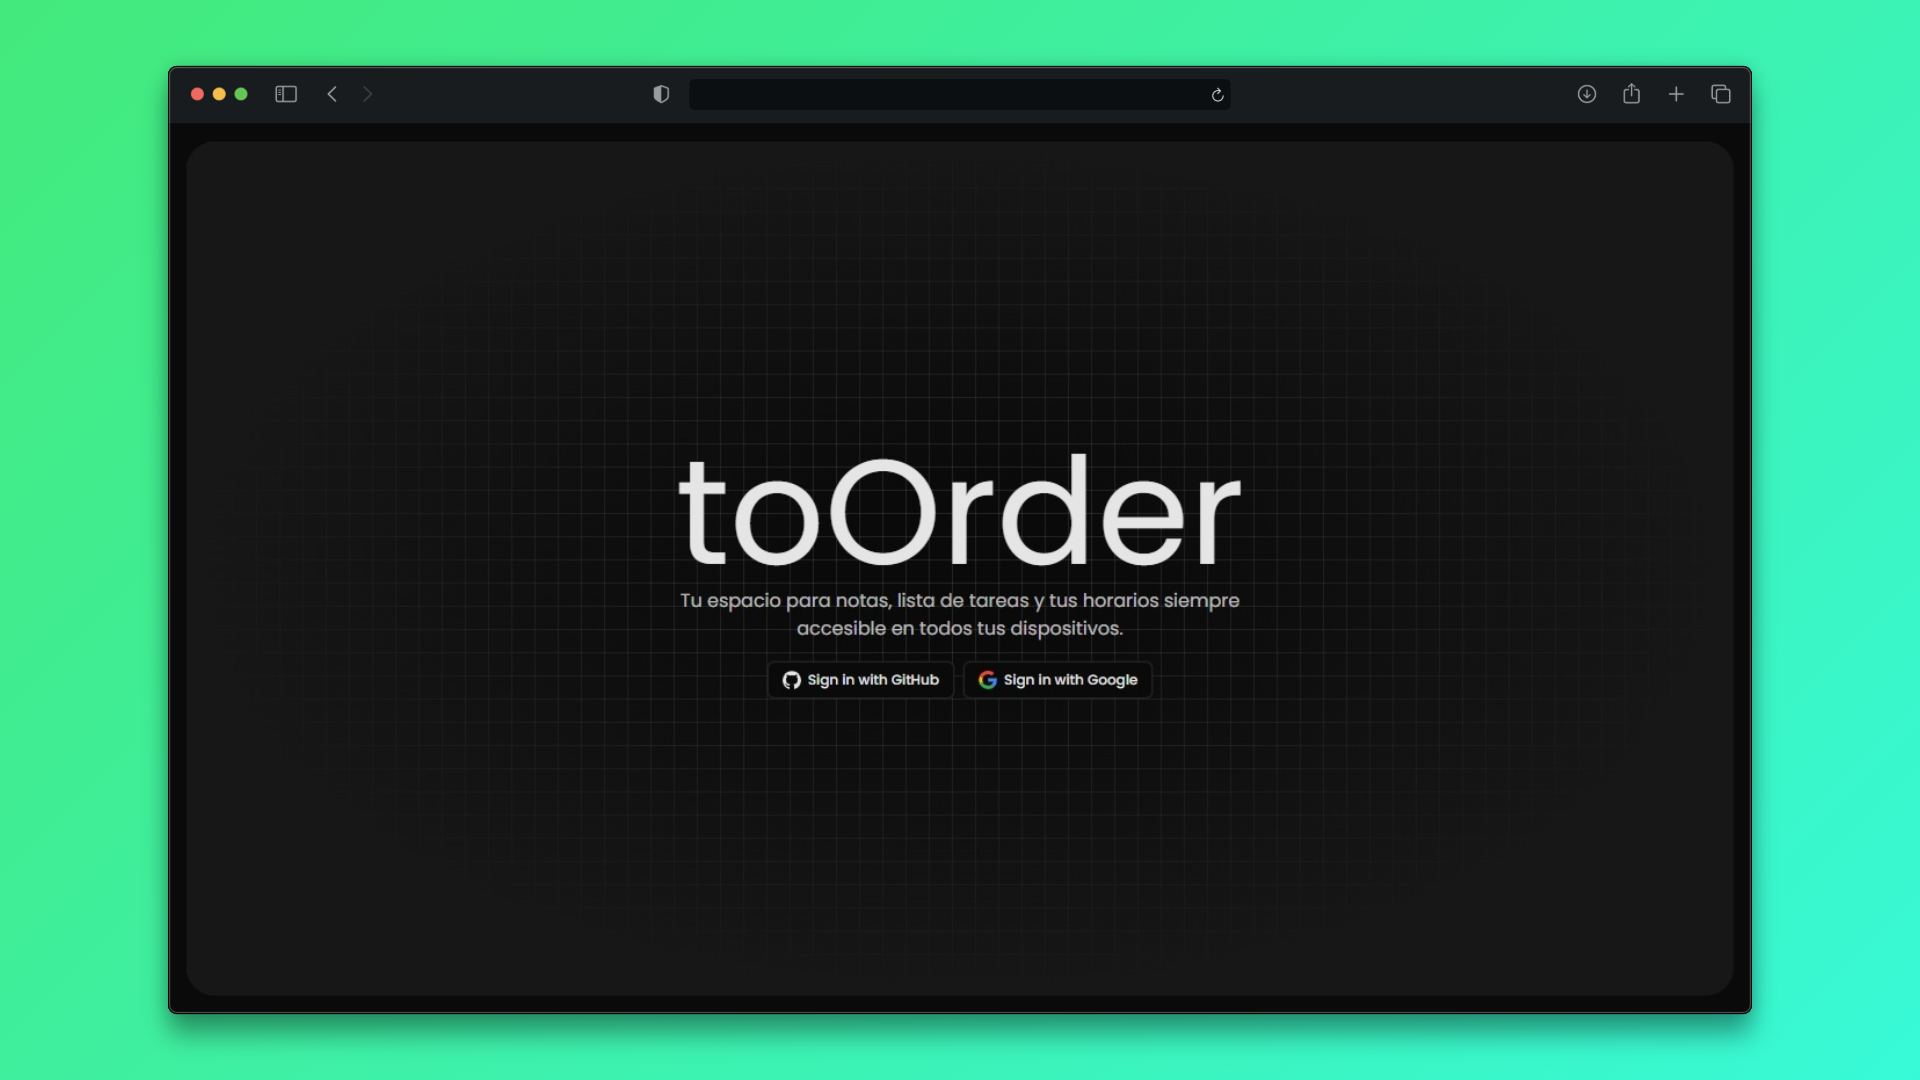
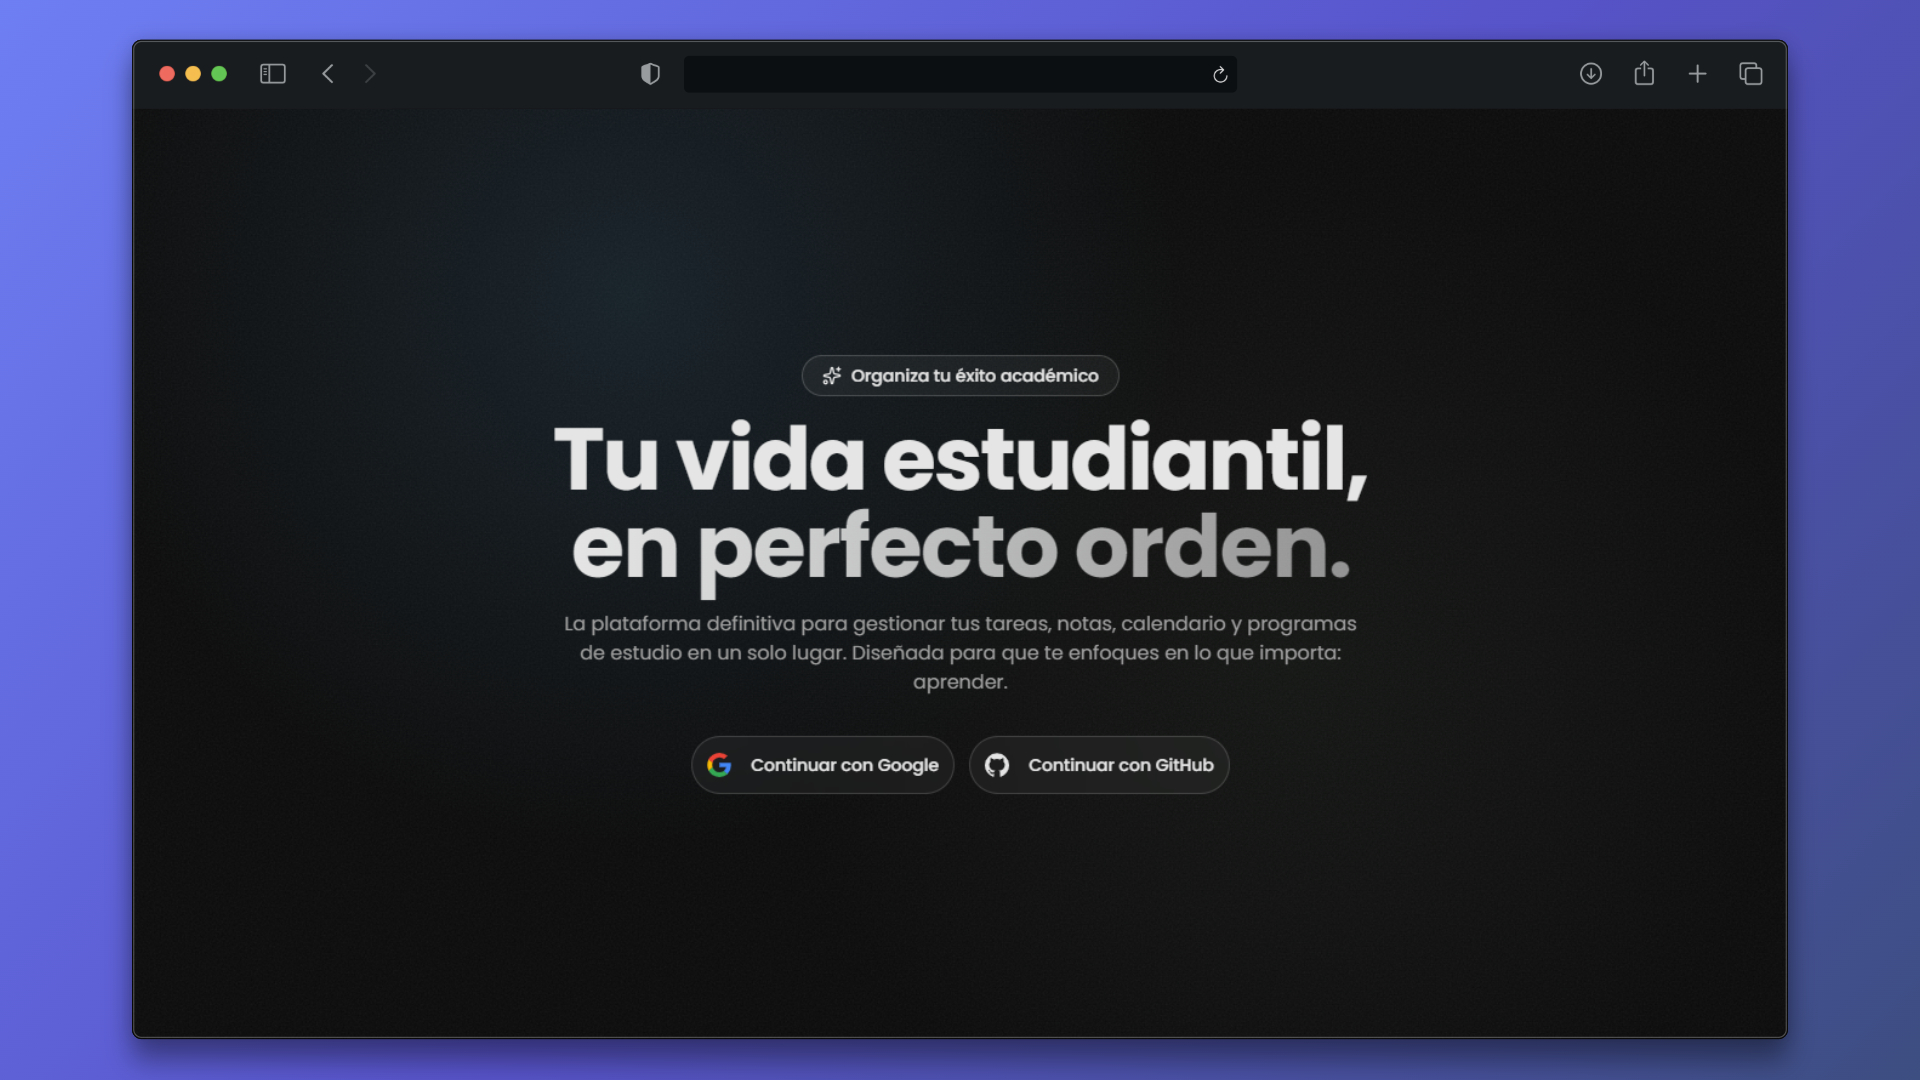
feat: add new project

diff --git a/src/types.d.ts b/src/types.d.ts
@@ -4,7 +4,7 @@ export interface Project {
 	description: string
 	url?: string
 	github: string
-	image: string
+	images: string[]
 	stack: Stack[]
 }
 
